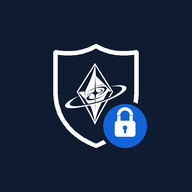
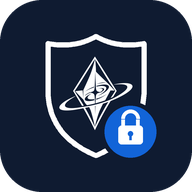
feat: PWAとブラウザのアイコンを設定した

diff --git a/app.js b/app.js
@@ -7,7 +7,7 @@ const CACHE_KEY_ID = "account-cache-key-v1";
 const CACHE_AAD = new TextEncoder().encode("phos-mfa.accounts.v2");
 const OTP_HASHES = { SHA1: "SHA-1", SHA256: "SHA-256", SHA512: "SHA-512" };
 const OTP_DEFAULTS = { algorithm: "SHA1", digits: 6, period: 30 };
-const SERVICE_WORKER_CACHE = "phos-mfa-v22";
+const SERVICE_WORKER_CACHE = "phos-mfa-v23";
 // 開いたときのロックが有効な人のオフライン用キャッシュ (v3)。サーバーからもらう鍵 K で暗号化し、
 // K はパスコードから PBKDF2 で作った鍵で包んで保存する。パスコードを知らないと開けない。
 const OFFLINE_WRAP_KEY = "phos-mfa.offline-wrap.v1";
@@ -651,6 +651,10 @@ async function prepareOfflineApp() {
       "/manifest.webmanifest",
       "/icons/icon-192.png",
       "/icons/icon-512.png",
+      "/icons/icon-maskable-192.png",
+      "/icons/icon-maskable-512.png",
+      "/icons/apple-touch-icon.png",
+      "/icons/favicon-32.png",
     ];
 
     await Promise.all(

diff --git a/index.html b/index.html
@@ -5,9 +5,14 @@
     <meta name="viewport" content="width=device-width, initial-scale=1">
     <meta name="theme-color" content="#0f1b31">
     <title>PhosMFA</title>
-    <link rel="shortcut icon" href="icons/favicon.png" type="image/x-icon">
+    <link rel="icon" href="/icons/favicon.ico" sizes="any">
+    <link rel="icon" href="/icons/favicon-32.png" type="image/png" sizes="32x32">
+    <link rel="apple-touch-icon" href="/icons/apple-touch-icon.png">
     <link rel="manifest" href="/manifest.webmanifest">
-    <link rel="apple-touch-icon" href="/icons/icon-192.png">
+    <meta name="apple-mobile-web-app-title" content="PhosMFA">
+    <meta name="apple-mobile-web-app-capable" content="yes">
+    <meta name="mobile-web-app-capable" content="yes">
+    <meta name="apple-mobile-web-app-status-bar-style" content="default">
     <link rel="stylesheet" href="styles.css">
   </head>
   <body>

diff --git a/sw.js b/sw.js
@@ -1,4 +1,4 @@
-const CACHE_NAME = "phos-mfa-v22";
+const CACHE_NAME = "phos-mfa-v23";
 const APP_SHELL = [
   "/index.html",
   "/styles.css",
@@ -7,6 +7,10 @@ const APP_SHELL = [
   "/manifest.webmanifest",
   "/icons/icon-192.png",
   "/icons/icon-512.png",
+  "/icons/icon-maskable-192.png",
+  "/icons/icon-maskable-512.png",
+  "/icons/apple-touch-icon.png",
+  "/icons/favicon-32.png",
 ];
 
 self.addEventListener("install", (event) => {
